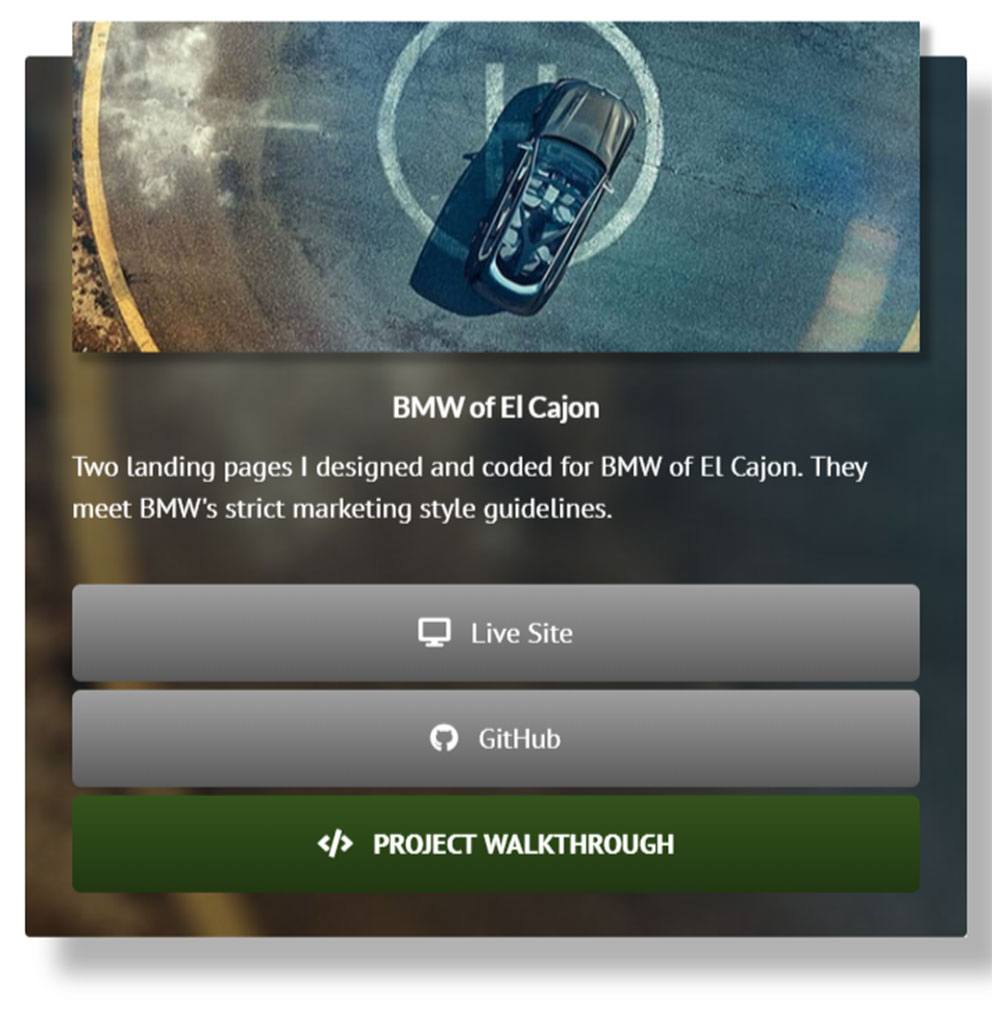
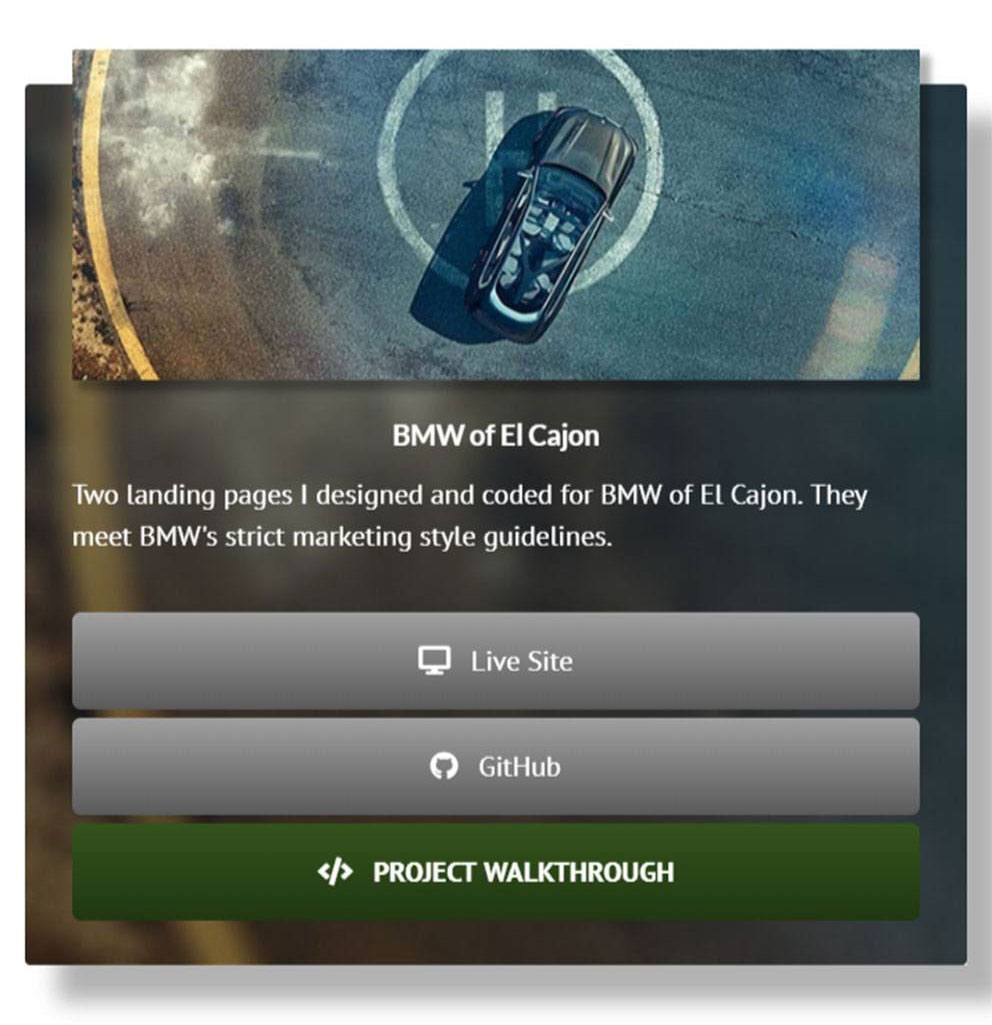
Aligned mobile, tablet, and desktop example images using Photoshop cropping.

diff --git a/assets/css/walkthroughs/my-portfolio-walkthrough.css b/assets/css/walkthroughs/my-portfolio-walkthrough.css
@@ -26,12 +26,12 @@
 }
 
 #desktop-card-example {
-  background-image: url(../../img/walkthroughs/portfolio/project-cards/project-cards-lg-992x400-min.jpg);
+  background-image: url(../../img/walkthroughs/portfolio/project-cards/project-cards-lg-992x475-min.jpg);
   background-position: center;
   background-repeat: no-repeat;
   background-size: cover;
   height: 0;
-  padding-bottom: 40%;
+  padding-bottom: 47%;
   width: 100%;
 }
 
